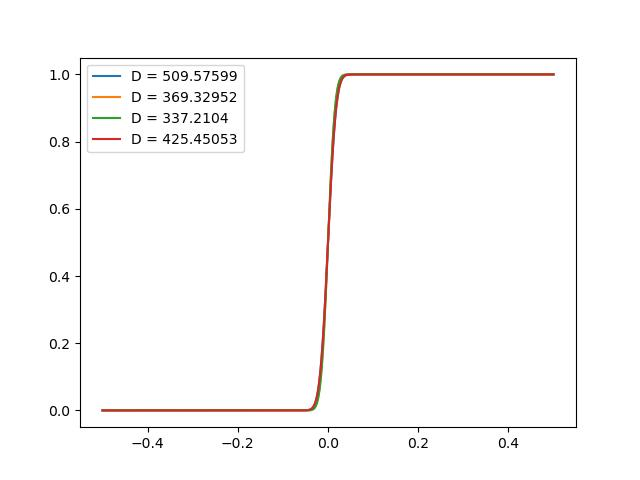
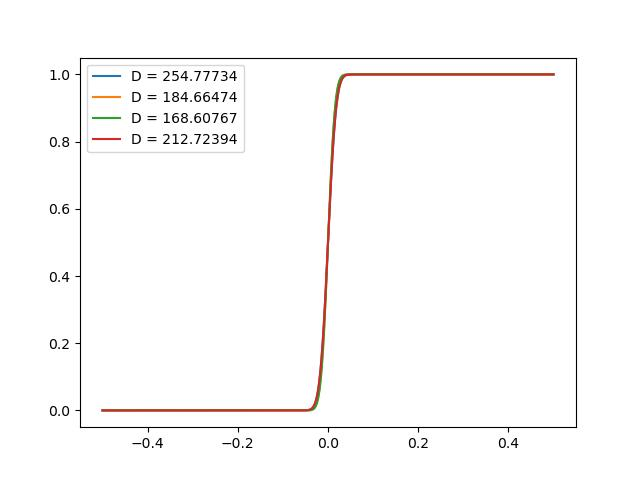
swapped back to std

Changed region(s): [[0.25, 0.125, 0.375, 0.3125]]

diff --git a/Microchannel_diffusion/main.py b/Microchannel_diffusion/main.py
@@ -75,7 +75,7 @@ def main():
     print("Diffusion constant: ")
     print(Diffusion_constants)
     Diffusion_constants = np.array(Diffusion_constants)
-    print("Mean D = ",np.mean(Diffusion_constants) , "+-: ",np.sqrt(max((np.mean(Diffusion_constants)-Diffusion_constants)**2)))
+    print("Mean D = ",np.mean(Diffusion_constants) , "std = ",np.std(Diffusion_constants))
     k_b = 1.3806503 * 10**(-23)
     nu = 1.002 * 10**(-3)              # Pas at 20*C
     T = 20+273
@@ -83,7 +83,7 @@ def main():
     radius = np.array(radius_func(Diffusion_constants))
     print("Hydrodynamic radius: ")
     print(radius)
-    print("Mean R = ", np.mean(radius), "+-: ", np.sqrt(max((np.mean(radius)-radius)**2)))
+    print("Mean R = ", np.mean(radius), "std = ", np.std(radius))
     
 
 if __name__ == "__main__":
